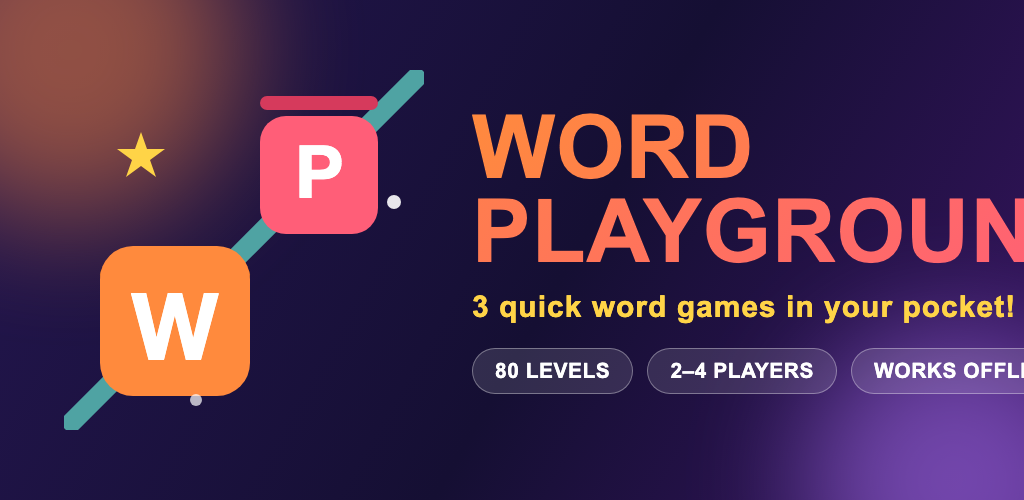
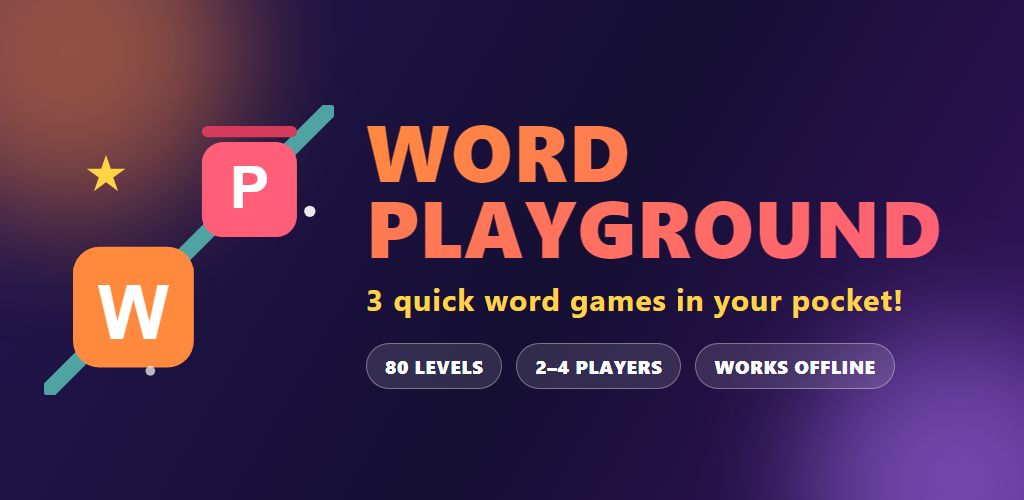
Release 2.1.0 as versionCode 4; fix clipped feature graphic
- versionCode 3 -> 4: Play has already used 3 (2.0.0), so 2.1.0 needs a
  new code. 2.1.0 (4) is the bundle on the closed testing track.
- Feature graphic: "WORD PLAYGROUND" and the WORKS OFFLINE badge ran off
  the right edge. Smaller art, padding and badges so everything fits;
  PNG re-rendered from tools/feature-graphic.html.

Changed region(s): [[0.0312, 0.15, 1.0, 0.87], [0.3438, 0.57, 1.0, 0.81], [0.0938, 0.27, 0.1562, 0.39]]

diff --git a/tools/feature-graphic.html b/tools/feature-graphic.html
@@ -14,10 +14,10 @@
   .blob { position: absolute; border-radius: 50%; filter: blur(60px); opacity: .5; }
   .b1 { width: 340px; height: 340px; background: #FF8A3D; top: -120px; left: -100px; }
   .b2 { width: 300px; height: 300px; background: #B479FF; bottom: -130px; right: -80px; }
-  .wrap { position: relative; z-index: 2; display: flex; height: 100%; align-items: center; padding: 0 64px; gap: 48px; }
+  .wrap { position: relative; z-index: 2; display: flex; height: 100%; align-items: center; padding: 0 44px; gap: 32px; }
   .art { flex: none; }
   .text { flex: 1; }
-  h1 { font-size: 88px; font-weight: 900; letter-spacing: 1px; line-height: .95; }
+  h1 { font-size: 80px; font-weight: 900; letter-spacing: 1px; line-height: .95; }
   h1 .grad {
     background: linear-gradient(135deg, #FF8A3D, #FF5E78);
     -webkit-background-clip: text; background-clip: text; color: transparent;
@@ -28,8 +28,8 @@
     background: rgba(255,255,255,.12);
     border: 1.5px solid rgba(255,255,255,.35);
     border-radius: 999px;
-    padding: 10px 22px;
-    font-size: 21px;
+    padding: 9px 18px;
+    font-size: 19px;
     font-weight: 800;
     letter-spacing: .5px;
   }
@@ -41,7 +41,7 @@
   <div class="wrap">
 
     <!-- same art as the app icon: W + P tiles threaded on a rope -->
-    <svg class="art" width="360" height="360" viewBox="0 0 360 360">
+    <svg class="art" width="290" height="290" viewBox="0 0 360 360">
       <g>
         <line x1="8" y1="352" x2="352" y2="8" stroke="#4FA3A3" stroke-width="20" stroke-linecap="round"/>
         <rect x="36" y="196" width="150" height="17" rx="8.5" fill="#D96F1F"/>
